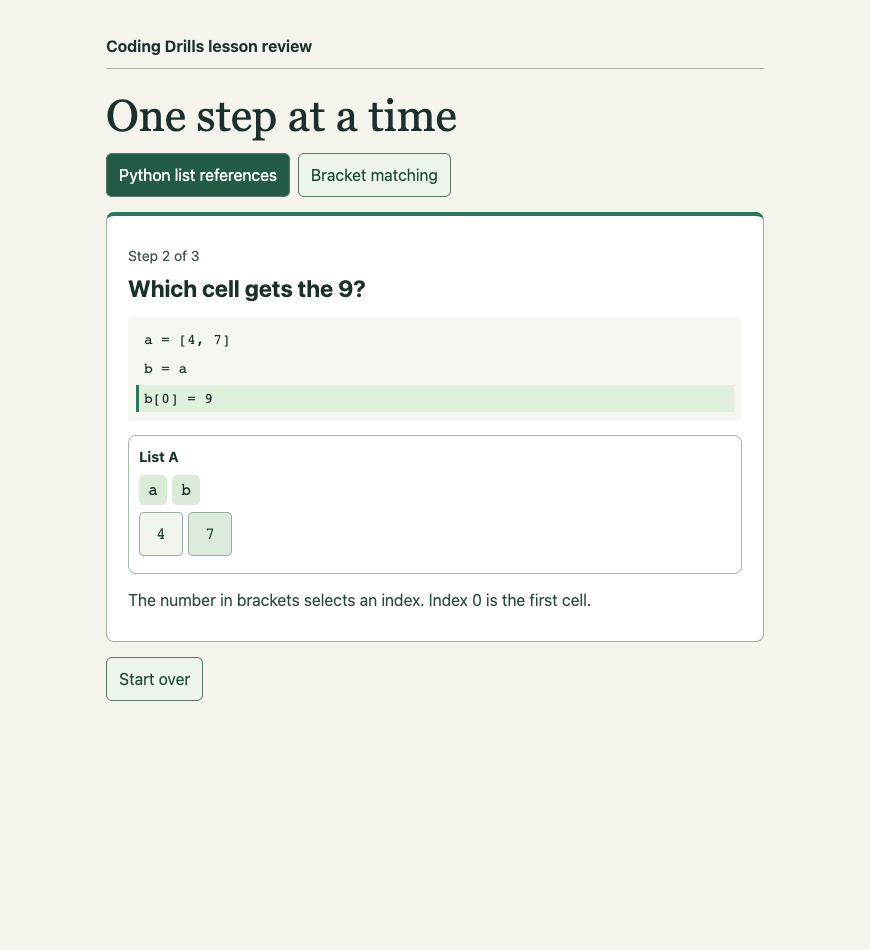
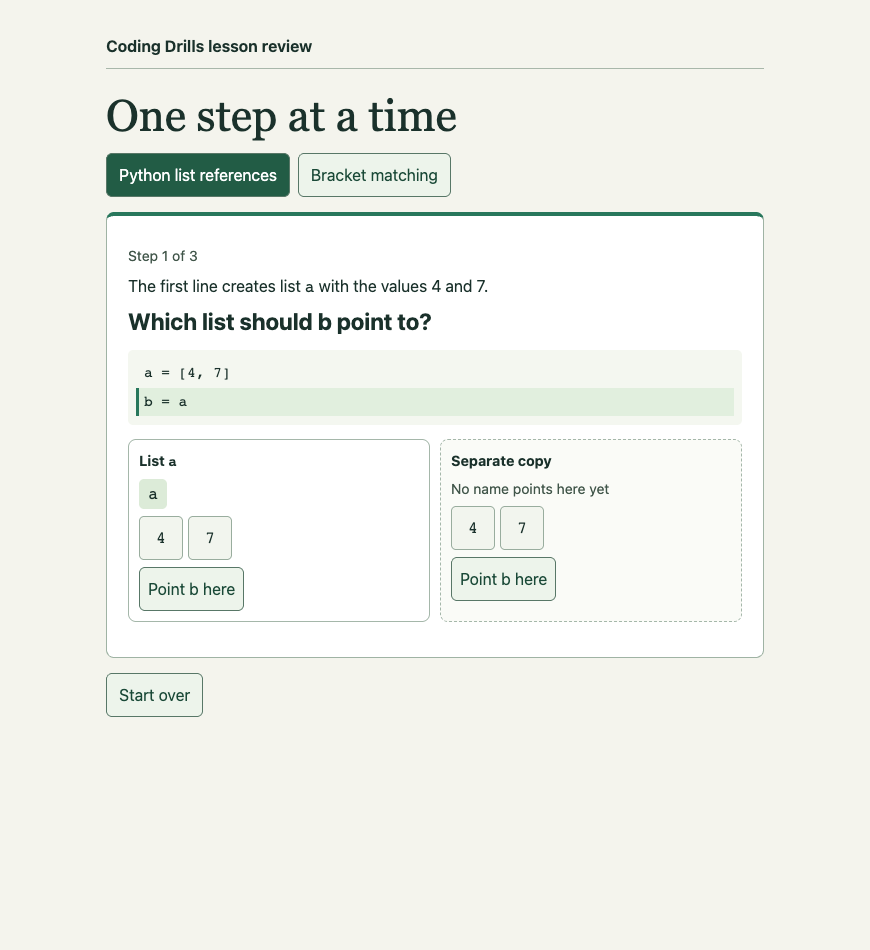
fix: label lists with the names from the Python code

diff --git a/docs/prototypes/learning-harness/guided-scenarios.html b/docs/prototypes/learning-harness/guided-scenarios.html
@@ -93,9 +93,10 @@ function code(lines, active=-1){
   if(i===active)row.setAttribute("aria-current","step");
  }
 }
-function listItem(board, title, names, values, {onSlot, onName, changed, movedName, ghost}={}){
+function listItem(board, names, values, {onSlot, onName, changed, movedName, ghost}={}){
  const list=add("div","",board,ghost?"object ghost":"object");
- add("strong",title,list);
+ const title=add("strong",names.length?"List ":ghost?"Separate copy":"New list",list);
+ if(names.length)add("code",names[0],title);
  const nameRow=add("div","",list,"names");
  if(names.length===0)add("span","No name points here yet",nameRow,"caption");
  for(const name of names){
@@ -118,9 +119,13 @@ function listItem(board, title, names, values, {onSlot, onName, changed, movedNa
 
 const listCode=["a = [4, 7]", "b = a", "b[0] = 9", "b = [6, 8]"];
 function lists(){
- if(step===0)add("p","In Python, a name points to a list. The line a = [4, 7] made List A and attached the name a.");
+ if(step===0){
+  const intro=add("p","The first line creates list ");
+  add("code","a",intro);
+  intro.append(" with the values 4 and 7.");
+ }
  const headings=["Which list should b point to?","Which cell gets the 9?","Which name moves to the new list?"];
- const summaries=["Both names now point to List A.","The first cell changed to 9.","The name b now points to List B."];
+ const summaries=["Both names now point to the same list.","The first cell changed to 9.","The name b now points to the new list."];
  if(step===3){
   const h=prompt(completed?"x[0] is 1":"What does the new example print?");
   code(["x = [1, 2]", "y = x", "y = [3, 4]", "y[0] = 6", "print(x[0])"]);
@@ -140,22 +145,22 @@ function lists(){
  const applied=step+Number(completed);
  const names=applied===0||applied===3?["a"]:["a","b"];
  const values=applied<2?["4","7"]:["9","7"];
- const first=listItem(board,"List A",names,values,{
+ const first=listItem(board,names,values,{
   changed:step===1&&completed?0:undefined,
   movedName:step===0&&completed?"b":undefined,
   onSlot:step===1&&!completed?index=>coach(index===0,index===0
    ?"b[0] changes the existing list. a reads the same 9."
    :"The number in brackets selects an index. Index 0 is the first cell."):null,
   onName:step===2&&!completed?name=>coach(name==="b",name==="b"
-   ?"The assignment changes where b points. a still points to List A."
-   :"The left side of the assignment is b. a keeps pointing to List A."):null
+   ?"The assignment changes where b points. a still points to its original list."
+   :"The left side of the assignment is b. a still points to its original list."):null
  });
  if(step===0&&!completed){
-  button("Point b here",()=>coach(true,"b = a makes b point to the list a already names."),first,{labelForReader:"Point b to List A"});
-  const copy=listItem(board,"Separate copy",[],["4","7"],{ghost:true});
+  button("Point b here",()=>coach(true,"b = a makes b point to the list a already names."),first,{labelForReader:"Point b to list a"});
+  const copy=listItem(board,[],["4","7"],{ghost:true});
   button("Point b here",()=>coach(false,"b = a has no copy operation. Use the existing list."),copy,{labelForReader:"Point b to a separate copy"});
  }
- if(step===2)listItem(board,"List B",completed?["b"]:[],["6","8"],{movedName:"b"});
+ if(step===2)listItem(board,completed?["b"]:[],["6","8"],{movedName:"b"});
  return h;
 }
 
